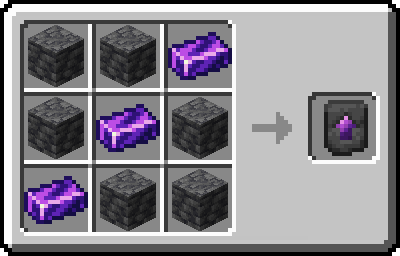
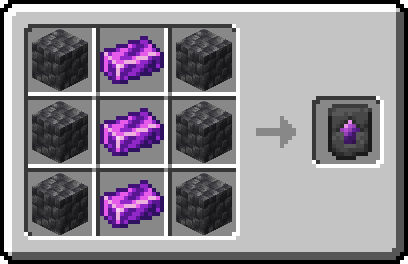
wiki: update recipes page

diff --git a/wiki/contents/receptury.md b/wiki/contents/receptury.md
@@ -2,18 +2,134 @@
 .page p {
     margin-top: 0;
 }
-.upgrade-recipes {
-    max-width: 45% !important;
-    padding: 5px;
+
+/* Tab widget */
+.recipe-tabs {
+    margin: 0.5em 0 0.75em;
+}
+.recipe-tabs input[type="radio"] {
+    display: none;
+}
+.recipe-tabs .tab-labels-wrap {
+    position: relative;
+    margin-bottom: 10px;
+}
+.recipe-tabs .tab-labels-wrap::after {
+    content: '';
+    position: absolute;
+    top: 0; bottom: 0;
+    width: 24px;
+    pointer-events: none;
+    z-index: 1;
+    right: 0;
+    background: linear-gradient(to left, var(--color-bg), transparent);
+}
+.recipe-tabs .tab-labels {
+    display: flex;
+    flex-wrap: nowrap;
+    gap: 4px;
+    overflow-x: auto;
+    scrollbar-width: none;
+    -ms-overflow-style: none;
+    padding: 2px 4px;
+}
+.recipe-tabs .tab-labels::-webkit-scrollbar {
+    display: none;
+}
+.recipe-tabs .tab-labels label {
+    padding: 4px 14px;
+    border-radius: 6px;
+    border: 1px solid var(--color-mono-3);
+    background: var(--color-mono-1);
+    color: var(--color-text);
+    font-size: 0.9em;
+    cursor: pointer;
+    user-select: none;
+    transition: background 0.15s, color 0.15s, border-color 0.15s;
+}
+.recipe-tabs .tab-labels label:hover {
+    filter: brightness(1.2);
 }
 
-.smithing-recipes {
-    max-width: 45% !important;
-    padding: 5px;
+/* Crafting recipe images (408×264) */
+.recipe-tabs .tab-panel img,
+.recipe-img {
+    height: 220px !important;
+    max-width: 100% !important;
+    width: auto !important;
+    margin: 0 4px 4px 0 !important;
+    image-rendering: crisp-edges;
+}
+/* Pixel-art upgrade images (102×30) — 4× scale, fluid on narrow screens */
+.recipe-tabs .tab-panel img.upgrade-img {
+    width: 408px !important;
+    max-width: 100% !important;
+    height: auto !important;
+    image-rendering: pixelated;
+    margin: 0 8px 8px 0 !important;
+}
+.recipe-tabs .tab-panel {
+    display: none;
+    flex-wrap: wrap;
+    align-items: flex-start;
+    gap: 0;
 }
 
-.upgrades-diagram {
-    max-width: 75% !important;
+/* Material button colors */
+.recipe-tabs .tab-labels label { --mat: var(--color-mono-4); }
+.recipe-tabs .tab-labels label[data-color="copper"]    { --mat: #b87333; }
+.recipe-tabs .tab-labels label[data-color="iron"]      { --mat: #a8a8b0; }
+.recipe-tabs .tab-labels label[data-color="gold"]      { --mat: #f0c030; }
+.recipe-tabs .tab-labels label[data-color="diamond"]   { --mat: #4de8e8; }
+.recipe-tabs .tab-labels label[data-color="netherite"] { --mat: #c4917f; }
+.recipe-tabs .tab-labels label[data-color="enderite"]  { --mat: #e792e8; }
+
+.recipe-tabs .tab-labels label[data-color] {
+    opacity: 0.45;
+}
+
+/* Active state — per radio ID */
+/* --- Template tabs --- */
+.recipe-tabs #tmpl-copper:checked  ~ .tab-labels-wrap .tab-labels label[for="tmpl-copper"],
+.recipe-tabs #tmpl-iron:checked    ~ .tab-labels-wrap .tab-labels label[for="tmpl-iron"],
+.recipe-tabs #tmpl-diamond:checked ~ .tab-labels-wrap .tab-labels label[for="tmpl-diamond"],
+.recipe-tabs #tmpl-netherite:checked ~ .tab-labels-wrap .tab-labels label[for="tmpl-netherite"],
+.recipe-tabs #tmpl-enderite:checked  ~ .tab-labels-wrap .tab-labels label[for="tmpl-enderite"],
+/* --- Tool upgrade tabs --- */
+.recipe-tabs #eq-miedz:checked    ~ .tab-labels-wrap .tab-labels label[for="eq-miedz"],
+.recipe-tabs #eq-zelazo:checked   ~ .tab-labels-wrap .tab-labels label[for="eq-zelazo"],
+.recipe-tabs #eq-diament:checked  ~ .tab-labels-wrap .tab-labels label[for="eq-diament"],
+.recipe-tabs #eq-netheryt:checked ~ .tab-labels-wrap .tab-labels label[for="eq-netheryt"],
+.recipe-tabs #eq-enderyt:checked  ~ .tab-labels-wrap .tab-labels label[for="eq-enderyt"],
+/* --- Armor upgrade tabs --- */
+.recipe-tabs #ar-miedz:checked    ~ .tab-labels-wrap .tab-labels label[for="ar-miedz"],
+.recipe-tabs #ar-zelazo:checked   ~ .tab-labels-wrap .tab-labels label[for="ar-zelazo"],
+.recipe-tabs #ar-diament:checked  ~ .tab-labels-wrap .tab-labels label[for="ar-diament"],
+.recipe-tabs #ar-netheryt:checked ~ .tab-labels-wrap .tab-labels label[for="ar-netheryt"],
+.recipe-tabs #ar-enderyt:checked  ~ .tab-labels-wrap .tab-labels label[for="ar-enderyt"] {
+    background: color-mix(in srgb, var(--mat), transparent 75%);
+    border-color: color-mix(in srgb, var(--mat), transparent 20%);
+    color: color-mix(in srgb, var(--mat), white 40%);
+    opacity: 1;
+}
+
+/* Visible panels */
+.recipe-tabs #tmpl-copper:checked  ~ .tab-panels #tmpl-panel-copper,
+.recipe-tabs #tmpl-iron:checked    ~ .tab-panels #tmpl-panel-iron,
+.recipe-tabs #tmpl-diamond:checked ~ .tab-panels #tmpl-panel-diamond,
+.recipe-tabs #tmpl-netherite:checked ~ .tab-panels #tmpl-panel-netherite,
+.recipe-tabs #tmpl-enderite:checked  ~ .tab-panels #tmpl-panel-enderite,
+.recipe-tabs #eq-miedz:checked    ~ .tab-panels #eq-panel-miedz,
+.recipe-tabs #eq-zelazo:checked   ~ .tab-panels #eq-panel-zelazo,
+.recipe-tabs #eq-diament:checked  ~ .tab-panels #eq-panel-diament,
+.recipe-tabs #eq-netheryt:checked ~ .tab-panels #eq-panel-netheryt,
+.recipe-tabs #eq-enderyt:checked  ~ .tab-panels #eq-panel-enderyt,
+.recipe-tabs #ar-miedz:checked    ~ .tab-panels #ar-panel-miedz,
+.recipe-tabs #ar-zelazo:checked   ~ .tab-panels #ar-panel-zelazo,
+.recipe-tabs #ar-diament:checked  ~ .tab-panels #ar-panel-diament,
+.recipe-tabs #ar-netheryt:checked ~ .tab-panels #ar-panel-netheryt,
+.recipe-tabs #ar-enderyt:checked  ~ .tab-panels #ar-panel-enderyt {
+    display: flex;
 }
 </style>
 
@@ -27,47 +143,106 @@ Część domyślnych receptur została zmodyfikowana na potrzeby balansu i dynam
 <div class="page">
 
 ### Wyposażenie :id=wyposazenie
-Maksymalny poziom wyposażenia, jakie można wytworzyć w stole rzemieślniczym, to **Kamienny** (Narzędzia) i **Skórzany** (Zbroja). Aby uzyskać lepsze wyposażenie, należy ulepszyć obecne, korzystając ze **Stołu Kowalskiego** i **Szablonów Ulepszeń**.
+W stole rzemieślniczym wytworzyć można tylko podstawowe narzędzia i zbroję.  
+Wyższe poziomy można uzyskać poprzez ulepszenie istniejących przedmiotów w **Stole Kowalskim**, przy użyciu **Szablonów Ulepszeń**.
 
-<div>
-    <img class="upgrade-recipes" src="assets/img/crafting_recipes/smithing_table.png" alt="Stół Kowalski: 4x Deski, 2x Sztabka Żelaza" data-no-zoom>
-</div>
+<img class="recipe-img" src="assets/img/crafting_recipes/smithing_table.png" alt="Stół Kowalski: 4x Deski, 2x Sztabka Żelaza" data-no-zoom>
 
 ### Szablony Ulepszeń :id=szablony-ulepszen
-Szablony ulepszeń można wytworzyć za pomocą poniższych receptur:
+Układ jest dowolny, a zamiast <strong>Łupkowego Bruku</strong> (Cobbled Deepslate) można też użyć <strong>Łupku</strong> (Deepslate).
 
-<div>
-    <img class="upgrade-recipes" src="assets/img/crafting_recipes/iron_upgrade.png" alt="Żelazne Ulepszenie: 6x Deepslate | Cobbled Deepslate, 3x Sztabka Żelaza" data-no-zoom>
-    <img class="upgrade-recipes" src="assets/img/crafting_recipes/diamond_upgrade.png" alt="Diamentowe Ulepszenie: 6x Deepslate | Cobbled Deepslate, 3x Diament" data-no-zoom>
+<div class="recipe-tabs">
+    <input type="radio" name="tmpl-tabs" id="tmpl-copper" checked>
+    <input type="radio" name="tmpl-tabs" id="tmpl-iron">
+    <input type="radio" name="tmpl-tabs" id="tmpl-diamond">
+    <input type="radio" name="tmpl-tabs" id="tmpl-netherite">
+    <input type="radio" name="tmpl-tabs" id="tmpl-enderite">
+    <div class="tab-labels-wrap"><div class="tab-labels">
+        <label for="tmpl-copper" data-color="copper">Miedź</label>
+        <label for="tmpl-iron" data-color="iron">Żelazo</label>
+        <label for="tmpl-diamond" data-color="diamond">Diament</label>
+        <label for="tmpl-netherite" data-color="netherite">Netheryt</label>
+        <label for="tmpl-enderite" data-color="enderite">Enderyt</label>
+    </div></div>
+    <div class="tab-panels">
+        <div class="tab-panel" id="tmpl-panel-copper">
+            <img src="assets/img/crafting_recipes/copper_upgrade.png" alt="Miedziane Ulepszenie: 6x Deepslate, 3x Sztabka Miedzi" data-no-zoom>
+        </div>
+        <div class="tab-panel" id="tmpl-panel-iron">
+            <img src="assets/img/crafting_recipes/iron_upgrade.png" alt="Żelazne Ulepszenie: 6x Deepslate, 3x Sztabka Żelaza" data-no-zoom>
+        </div>
+        <div class="tab-panel" id="tmpl-panel-diamond">
+            <img src="assets/img/crafting_recipes/diamond_upgrade.png" alt="Diamentowe Ulepszenie: 6x Deepslate, 3x Diament" data-no-zoom>
+        </div>
+        <div class="tab-panel" id="tmpl-panel-netherite">
+            <img src="assets/img/crafting_recipes/netherite_upgrade.png" alt="Netherytowe Ulepszenie: 6x Deepslate, 3x Sztabka Netherytu" data-no-zoom>
+        </div>
+        <div class="tab-panel" id="tmpl-panel-enderite">
+            <img src="assets/img/crafting_recipes/enderite_upgrade.png" alt="Enderytowe Ulepszenie: 6x Deepslate, 3x Sztabka Enderytu" data-no-zoom>
+        </div>
+    </div>
 </div>
-
-<div>
-    <img class="upgrade-recipes" src="assets/img/crafting_recipes/netherite_upgrade.png" alt="Netherytowe Ulepszenie: 6x Deepslate | Cobbled Deepslate, 3x Sztabka Netherytu" data-no-zoom>
-    <img class="upgrade-recipes" src="assets/img/crafting_recipes/enderite_upgrade.png" alt="Enderytowe Ulepszenie: 6x Deepslate | Cobbled Deepslate, 3x Sztabka Enderytu" data-no-zoom>
-</div>
-<sup>Układ jest dowolny, a zamiast <strong>Deepslate</strong> można też użyć <strong>Cobbled Deepslate</strong>.</sup>
 
 ### Ulepszanie Wyposażenia :id=ulepszanie-wyposazenia
-Do ulepszenia narzędzi potrzebny jest jeden szablon ulepszeń. Ulepszone przedmioty nie tracą zaklęć ani innych parametrów.
+Ulepszone przedmioty nie tracą zaklęć ani innych parametrów.
 
-<div>
-    <img class="smithing-recipes" src="assets/img/equipment_upgrades/stone.png" data-no-zoom>
-    <img class="smithing-recipes" src="assets/img/equipment_upgrades/iron.png" data-no-zoom>
-    <img class="smithing-recipes" src="assets/img/equipment_upgrades/gold.png" data-no-zoom>
-    <img class="smithing-recipes" src="assets/img/equipment_upgrades/diamond.png" data-no-zoom>
-    <img class="smithing-recipes" src="assets/img/equipment_upgrades/netherite.png" data-no-zoom>
+<div class="recipe-tabs">
+    <input type="radio" name="eq-tabs" id="eq-miedz" checked>
+    <input type="radio" name="eq-tabs" id="eq-zelazo">
+    <input type="radio" name="eq-tabs" id="eq-diament">
+    <input type="radio" name="eq-tabs" id="eq-netheryt">
+    <input type="radio" name="eq-tabs" id="eq-enderyt">
+    <div class="tab-labels-wrap"><div class="tab-labels">
+        <label for="eq-miedz" data-color="copper">Miedź</label>
+        <label for="eq-zelazo" data-color="iron">Żelazo</label>
+        <label for="eq-diament" data-color="diamond">Diament</label>
+        <label for="eq-netheryt" data-color="netherite">Netheryt</label>
+        <label for="eq-enderyt" data-color="enderite">Enderyt</label>
+    </div></div>
+    <div class="tab-panels">
+        <div class="tab-panel" id="eq-panel-miedz"><img src="assets/img/equipment_upgrades/stone.png" class="upgrade-img" data-no-zoom></div>
+        <div class="tab-panel" id="eq-panel-zelazo"><img src="assets/img/equipment_upgrades/copper.png" class="upgrade-img" data-no-zoom></div>
+        <div class="tab-panel" id="eq-panel-diament"><img src="assets/img/equipment_upgrades/iron.png" class="upgrade-img" data-no-zoom></div>
+        <div class="tab-panel" id="eq-panel-netheryt"><img src="assets/img/equipment_upgrades/diamond.png" class="upgrade-img" data-no-zoom></div>
+        <div class="tab-panel" id="eq-panel-enderyt"><img src="assets/img/equipment_upgrades/netherite.png" class="upgrade-img" data-no-zoom></div>
+    </div>
 </div>
 
 ### Ulepszanie Zbroi :id=ulepszanie-zbroi
-Do ulepszenia zbroi potrzebne są dwa szablony ulepszeń. Ulepszone przedmioty nie tracą zaklęć ani innych parametrów.
+Ulepszone przedmioty nie tracą zaklęć ani innych parametrów.
 
-<div>
-    <img class="smithing-recipes" src="assets/img/armor_upgrades/leather.png" data-no-zoom>
-    <img class="smithing-recipes" src="assets/img/armor_upgrades/chainmail.png" data-no-zoom>
-    <img class="smithing-recipes" src="assets/img/armor_upgrades/iron.png" data-no-zoom>
-    <img class="smithing-recipes" src="assets/img/armor_upgrades/gold.png" data-no-zoom>
-    <img class="smithing-recipes" src="assets/img/armor_upgrades/diamond.png" data-no-zoom>
-    <img class="smithing-recipes" src="assets/img/armor_upgrades/netherite.png" data-no-zoom>
+<div class="recipe-tabs">
+    <input type="radio" name="ar-tabs" id="ar-miedz" checked>
+    <input type="radio" name="ar-tabs" id="ar-zelazo">
+    <input type="radio" name="ar-tabs" id="ar-diament">
+    <input type="radio" name="ar-tabs" id="ar-netheryt">
+    <input type="radio" name="ar-tabs" id="ar-enderyt">
+    <div class="tab-labels-wrap"><div class="tab-labels">
+        <label for="ar-miedz" data-color="copper">Miedź</label>
+        <label for="ar-zelazo" data-color="iron">Żelazo</label>
+        <label for="ar-diament" data-color="diamond">Diament</label>
+        <label for="ar-netheryt" data-color="netherite">Netheryt</label>
+        <label for="ar-enderyt" data-color="enderite">Enderyt</label>
+    </div></div>
+    <div class="tab-panels">
+        <div class="tab-panel" id="ar-panel-miedz">
+            <img src="assets/img/armor_upgrades/leather.png" class="upgrade-img" data-no-zoom>
+        </div>
+        <div class="tab-panel" id="ar-panel-zelazo">
+            <img src="assets/img/armor_upgrades/copper.png" class="upgrade-img" data-no-zoom>
+            <img src="assets/img/armor_upgrades/chainmail.png" class="upgrade-img" data-no-zoom>
+        </div>
+        <div class="tab-panel" id="ar-panel-diament">
+            <img src="assets/img/armor_upgrades/iron.png" class="upgrade-img" data-no-zoom>
+            <img src="assets/img/armor_upgrades/gold.png" class="upgrade-img" data-no-zoom>
+        </div>
+        <div class="tab-panel" id="ar-panel-netheryt">
+            <img src="assets/img/armor_upgrades/diamond.png" class="upgrade-img" data-no-zoom>
+        </div>
+        <div class="tab-panel" id="ar-panel-enderyt">
+            <img src="assets/img/armor_upgrades/netherite.png" class="upgrade-img" data-no-zoom>
+        </div>
+    </div>
 </div>
 
 <hr>
